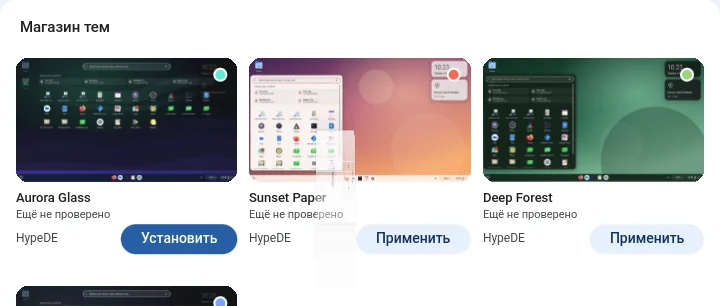
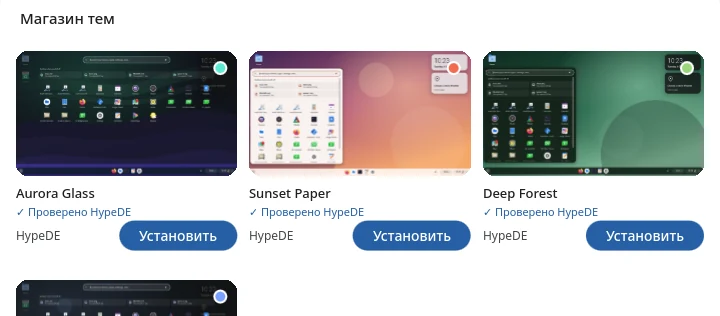
Retake the widgets, minimise and theme store screenshots
These three were still from October. They now come from the current
public build: desktop widgets on today's date, the genie minimise of a
Calculator window, and the theme store with its four reviewed themes in
English and Russian.

Claude-Session: https://claude.ai/code/session_01YDk37qsyzCpHq1sb5hxQ6s

Changed region(s): [[0.0, 0.1471, 0.9778, 0.8529], [0.0, 0.8824, 0.3361, 1.0], [0.0306, 0.0294, 0.1528, 0.1176]]

diff --git a/ru/index.html b/ru/index.html
@@ -168,12 +168,12 @@
     </div>
     <div class="gallery" style="margin-top: 28px">
       <figure class="screen">
-        <img src="../assets/img/widgets-light.webp?v=640682d603" width="1600" height="900" loading="lazy"
+        <img src="../assets/img/widgets-light.webp?v=72a3d206a7" width="1600" height="900" loading="lazy"
              alt="Рабочий стол с виджетами: календарь, часы, нагрузка системы и заметка">
         <figcaption>Виджеты: календарь, часы, нагрузка и заметка.</figcaption>
       </figure>
       <figure class="screen">
-        <img src="../assets/img/genie-light.webp?v=d73507d95d" width="1600" height="900" loading="lazy"
+        <img src="../assets/img/genie-light.webp?v=18172659cd" width="1600" height="900" loading="lazy"
              alt="Окно на полпути сворачивания перетекает в свой значок на полке">
         <figcaption>Сворачивание: окно перетекает в свой значок.</figcaption>
       </figure>
@@ -202,8 +202,8 @@
         <p><a href="../wiki/ru/themes.html">Как сделать и опубликовать тему →</a></p>
       </div>
       <figure class="screen">
-        <img src="../assets/img/store-light-ru.webp?v=37a21a4596" width="720" height="306" loading="lazy"
-             alt="Магазин тем в «Настройках»: Aurora Glass, Sunset Paper и Deep Forest с кнопками «Установить» и «Применить»">
+        <img src="../assets/img/store-light-ru.webp?v=d42bb282df" width="720" height="316" loading="lazy"
+             alt="Магазин тем в «Настройках»: Aurora Glass, Sunset Paper и Deep Forest с кнопками «Установить»">
       </figure>
     </div>
   </section>

diff --git a/index.html b/index.html
@@ -168,12 +168,12 @@
     </div>
     <div class="gallery" style="margin-top: 28px">
       <figure class="screen">
-        <img src="assets/img/widgets-light.webp?v=640682d603" width="1600" height="900" loading="lazy"
+        <img src="assets/img/widgets-light.webp?v=72a3d206a7" width="1600" height="900" loading="lazy"
              alt="Desktop with widgets: calendar, clock, system load and a note">
         <figcaption>Widgets: calendar, clock, system load and a note.</figcaption>
       </figure>
       <figure class="screen">
-        <img src="assets/img/genie-light.webp?v=d73507d95d" width="1600" height="900" loading="lazy"
+        <img src="assets/img/genie-light.webp?v=18172659cd" width="1600" height="900" loading="lazy"
              alt="A window halfway through minimising, flowing into its shelf icon">
         <figcaption>Minimising: the window flows into its icon.</figcaption>
       </figure>
@@ -202,8 +202,8 @@
         <p><a href="wiki/themes.html">How to make and publish a theme →</a></p>
       </div>
       <figure class="screen">
-        <img src="assets/img/store-light.webp?v=0a6271c998" width="720" height="316" loading="lazy"
-             alt="Theme store in Settings: Aurora Glass, Sunset Paper and Deep Forest with Install and Apply buttons">
+        <img src="assets/img/store-light.webp?v=3dc7634f34" width="720" height="316" loading="lazy"
+             alt="Theme store in Settings: Aurora Glass, Sunset Paper and Deep Forest, each with an Install button">
       </figure>
     </div>
   </section>
